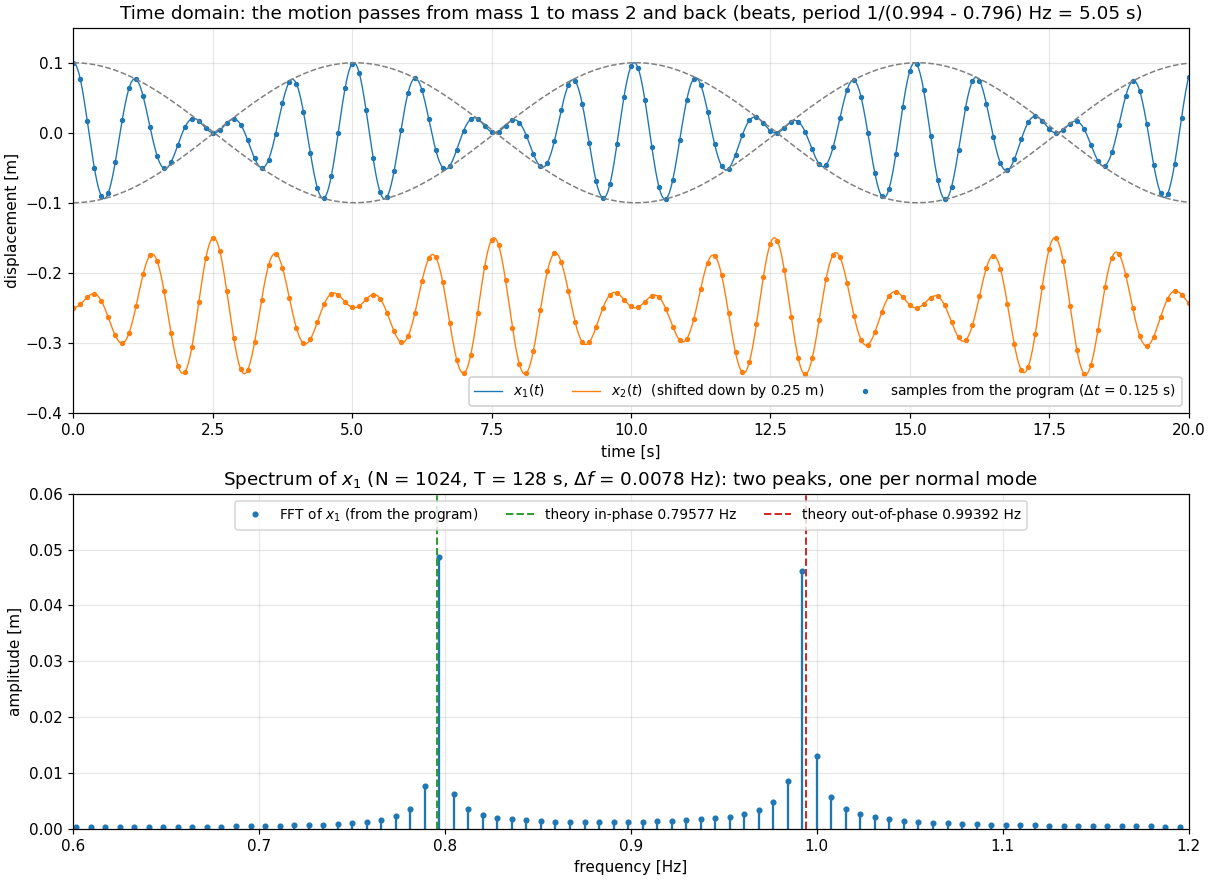
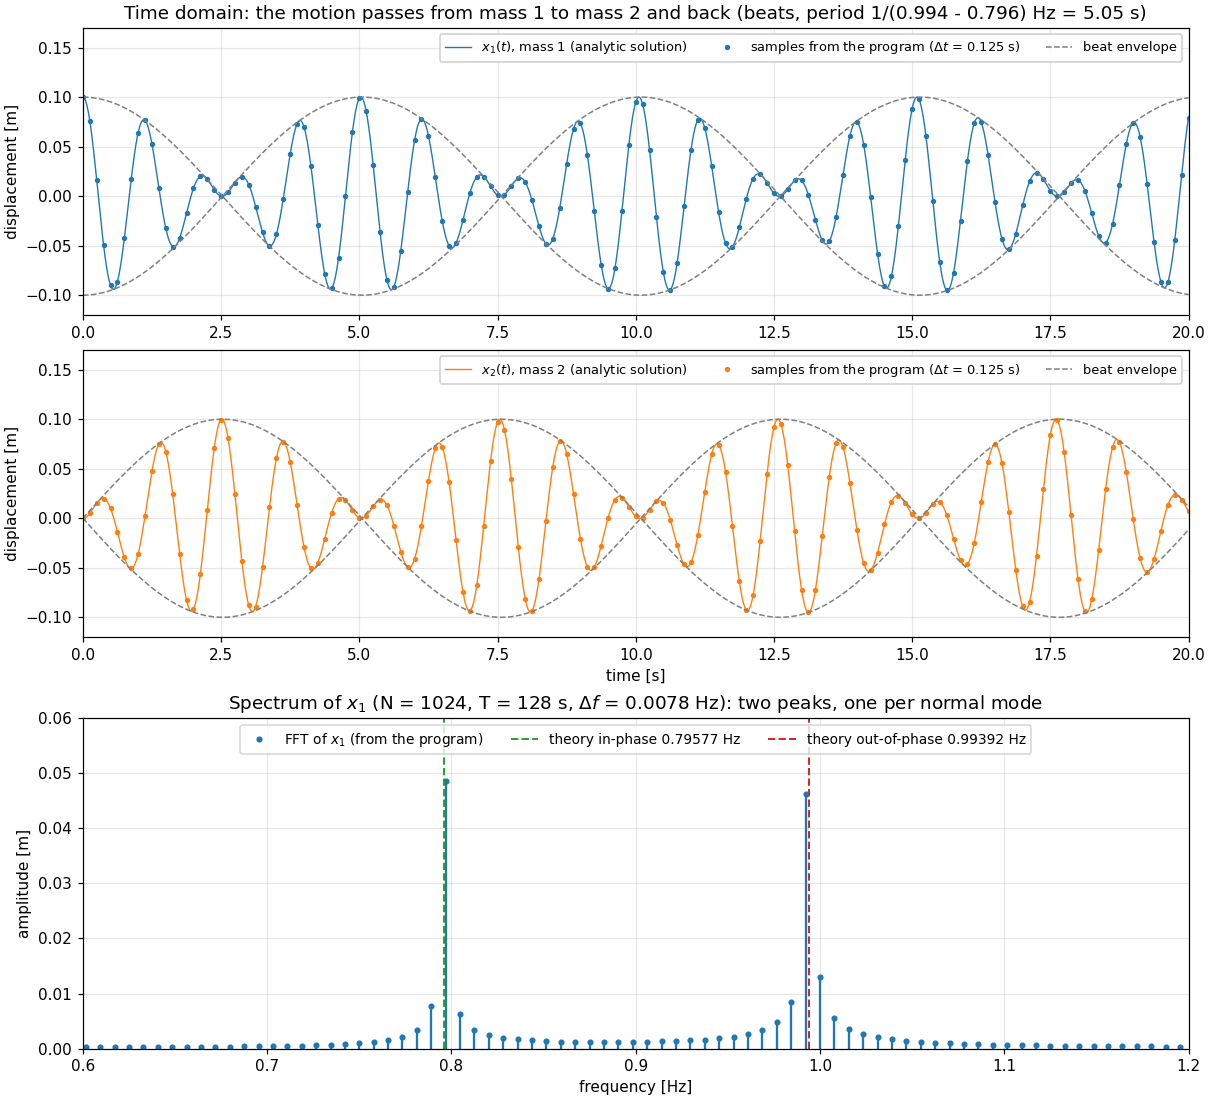
fixing

diff --git a/HomeWork4/README.md b/HomeWork4/README.md
@@ -275,10 +275,11 @@ motion; after 5.05 s the motion is back on mass 1, and so on.
 
 ![Motion of the two masses and spectrum of x1](images/coupled_results.png)
 
-- **Top:** x<sub>1</sub>(t) and x<sub>2</sub>(t) (shifted down for clarity). The dots are the
-  samples written by the program (`output/coupled_oscillators_time.csv`), the lines are the
-  analytic solution above, and the dashed grey line is the beat envelope of x<sub>1</sub>.
-  When x<sub>1</sub> is small, x<sub>2</sub> is large, and vice versa.
+- **Top and middle:** x<sub>1</sub>(t) (mass 1) and x<sub>2</sub>(t) (mass 2), both
+  centred on 0, on the same time axis. The dots are the samples written by the program
+  (`output/coupled_oscillators_time.csv`), the lines are the analytic solution above, and the
+  dashed grey lines are the beat envelopes. When the oscillation of mass 1 is large, mass 2 is
+  almost still (t = 0, 5, 10 s), and vice versa (t = 2.5, 7.5 s).
 - **Bottom:** the FFT of x<sub>1</sub> computed by the program
   (`output/coupled_oscillators_spectrum.csv`), with the two theoretical frequencies as dashed
   lines.
